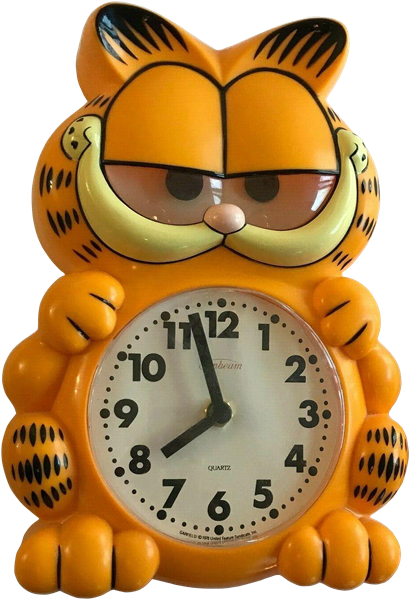
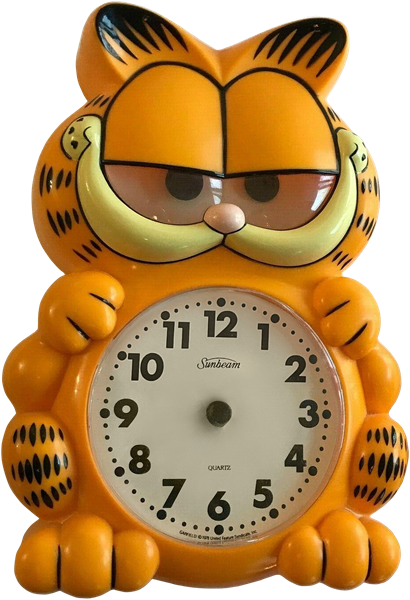
garfield light switch + working clock + more merch

diff --git a/codecreature.net/shrines/garfield/merch/index.html b/codecreature.net/shrines/garfield/merch/index.html
@@ -66,9 +66,15 @@
 									data-caption="1989 McDonald’s Happy Meal toy">
 							</td>
 						-->
+						<!-- top row -->
+						<tr>
+							<td></td>
+							<td></td>
+							<td></td>
+							<td></td>
+						</tr>
 						<!-- shelf 1 -->
 						<tr>
-							
 							<td class="item small"><div class="wrapper">
 								<img src="../images/merch/mcdonalds_scooter_02.png" alt="A small plastic Garfield and Odie riding a bright red moped. Garfield is waving."
 									data-caption="1989 McDonald’s Happy Meal toy">
@@ -137,7 +143,8 @@
 							</td>
 							
 							<td class="item">
-								<img src="../images/merch/coin_bank.png" alt="A coin bank of Garfield sitting up, crossing his arms with a smirk">
+								<img src="../images/merch/plush_mcdonalds.png" alt="Smiling Garfield plush wearing a red McDonald's visor, tie, and striped shirt. He has a Garfield and Company paper tag on his ear."
+									data-caption="1988 McDonald's Manager Plush by Dakin<br>This toy was only available to employees and never sold at retail!">
 							</td>
 							
 							<td class="item">
@@ -146,9 +153,10 @@
 									style="margin-bottom: -1%; margin-left: -10%; rotate: -6deg;">
 							</td>
 							
-							<td class="item">
-								<img src="../images/merch/plush_mcdonalds.png" alt="Smiling Garfield plush wearing a red McDonald's visor, tie, and striped shirt. He has a Garfield and Company paper tag on his ear."
-									data-caption="1988 McDonald's Manager Plush by Dakin<br>This toy was only available to employees and never sold at retail!">
+							<td class="item lamp">
+								<div class="glow"></div>
+								<img class="off" style="padding-left: 8%;" src="../images/merch/lamp_merchoid_moon.png" alt="">
+								<img class="on" style="padding-left: 8%;" src="../images/merch/lamp_merchoid_moon_on.png" alt="">
 							</td>
 						</tr>
 						
@@ -206,6 +214,7 @@
 						<!-- shelf 5 -->
 						<tr>
 							<td class="item">
+								<img src="../images/merch/coin_bank.png" alt="A coin bank of Garfield sitting up, crossing his arms with a smirk">
 							</td>
 							
 							<td class="item med">
@@ -218,6 +227,8 @@
 							</td>
 							
 							<td class="item">
+								<img src="../images/merch/kidrobot_wiper.png" alt=""
+									data-caption="Screen Wipe Plush by Kidrobot">
 							</td>
 						</tr>
 						
@@ -237,11 +248,50 @@
 					})();
 				</script>
 				
-				<img id="balloon-embroidery" class="wall-hanging" src="../images/merch/balloon_embroidery.png" alt="">
+				<img id="balloon-embroidery" class="wall-hanging thin-shadow" src="../images/merch/balloon_embroidery.png" alt="">
 				
 				<div class="pendulum-clock wall-hanging">
 					<img class="body" src="../images/merch/clock_sunbeam_pendulum.png" alt="">
+					<img id="pendulum-clock-second" class="hands" src="../images/merch/clock_sunbeam_pendulum_second.png" alt="">
+					<img id="pendulum-clock-minute" class="hands" src="../images/merch/clock_sunbeam_pendulum_minute.png" alt="">
+					<img id="pendulum-clock-hour" class="hands" src="../images/merch/clock_sunbeam_pendulum_hour.png" alt="">
+					<img class="hands center" src="../images/merch/clock_sunbeam_pendulum_center.png" alt="">
 					<div class="tail"><img src="../images/merch/clock_sunbeam_pendulum_tail.png" alt=""></div>
+					
+					<script>
+						(()=>{
+							let date = new Date();
+							let hours = date.getHours();
+							let minutes = date.getMinutes();
+							let seconds = date.getSeconds();
+							
+							var secDeg = seconds * 6;
+							var minuteDeg = (minutes * 6) + (seconds * .1);
+							var hourDeg = (hours * 30) + (minutes * .5);
+							
+							var secondHand = document.getElementById("pendulum-clock-second");
+							var minuteHand = document.getElementById("pendulum-clock-minute");
+							var hourHand = document.getElementById("pendulum-clock-hour");
+							function rotateClock() {
+								secDeg += 6;
+								minuteDeg += 0.1;
+								hourDeg += 0.1 / 60;
+								secondHand.style.rotate = secDeg + "deg";
+								minuteHand.style.rotate = minuteDeg + "deg";
+								hourHand.style.rotate = hourDeg + "deg";
+								setTimeout(rotateClock,1000)
+							}
+							rotateClock();
+						})();
+					</script>
+				</div>
+				
+				<div id="light-switch" class="wall-hanging" onclick="document.body.classList.toggle('lights-off');">
+					<div class="wrapper">
+						<img class="plate thin-shadow" src="../images/merch/switch_plate_flower.png" alt="">
+						<img class="off" src="../images/merch/switch_plate_flower_off.png" alt="">
+						<img class="on" src="../images/merch/switch_plate_flower_on.png" alt="">
+					</div>
 				</div>
 				
 			</div>

diff --git a/codecreature.net/shrines/garfield/merch/merch.css b/codecreature.net/shrines/garfield/merch/merch.css
@@ -36,12 +36,12 @@
 		text-align: center;
 		> img { max-width: 100%; }
 		/* background */
-		&:after {
+		&:before {
 			content: '';
+			z-index: -1;
 			position: absolute;
 			left: 0; top: 0;
 			width: 100%; height: 100%;
-			z-index: -1;
 			background-image: url('../images/merch/shelf_middle.png');
 			background-size: 100% 100%;
 		}
@@ -50,7 +50,7 @@
 			width: calc(var(--size)*1.158);
 			text-align: right;
 			/* background */
-			&:after { background-image: url('../images/merch/shelf_left.png'); }
+			&:before { background-image: url('../images/merch/shelf_left.png'); }
 			/* contents */
 			> img, .wrapper { max-width: 80%; }
 			.wrapper { float: right; }
@@ -60,7 +60,7 @@
 			width: calc(var(--size)*1.458);
 			text-align: left;
 			/* background */
-			&:after { background-image: url('../images/merch/shelf_right.png'); }
+			&:before { background-image: url('../images/merch/shelf_right.png'); }
 			/* contents */
 			> img, .wrapper { max-width: 67%; }
 		}
@@ -93,14 +93,13 @@
 		} }
 	}
 	
-	td {
-		&:first-of-type { width: calc(var(--size)*.9); }
-		&:last-of-type {  }
-	}
+	td:first-of-type { width: calc(var(--size)*.9); }
 	
-	/* top of shelves */
 	tr:first-of-type {
 		td {
+			width: var(--size);
+			position: relative;
+			z-index: 10;
 			&:before {
 				content: '';
 				background-image: url('../images/merch/shelf_top_middle.png');
@@ -112,6 +111,7 @@
 				top: 0;
 				height: calc(var(--size));
 				width: 100%;
+				pointer-events: none;
 			}
 			
 			&:first-of-type {
@@ -147,11 +147,22 @@
 	font-size: 0.9em;
 }
 
+/*** WALL HANGINGS ***/
+.wall-hanging {
+	display: inline-block;
+}
+.wall-hanging img, img.wall-hanging {
+	user-select: none;
+}
 .wall-hanging img, img.wall-hanging, #shelves {
 	filter: drop-shadow(-5px 10px 8px rgba(100,60,31,.5));
 }
-
+.wall-hanging .thin-shadow, .wall-hanging.thin-shadow {
+	filter: drop-shadow(-2px 4px 3px rgba(100,60,31,.5));
+}
 .pendulum-clock {
+	pointer-events: none;
+	position: relative;
 	@media screen and (width > 1500px) {
 		position: absolute;
 		z-index: 1;
@@ -159,8 +170,19 @@
 	}
 	width: min(60%,270px);
 	margin: 0 auto;
-	display: inline-block;
 }
+
+.pendulum-clock .hands {
+	position: absolute;
+	transform-origin: 50% 100%;
+	bottom: 51.8%;
+	left: 51.4%;
+	width: 5.4%;
+}
+.pendulum-clock .center {
+	bottom: 50.7%;
+}
+
 .pendulum-clock .tail {
 	position: relative;
 	width: 25%;
@@ -192,6 +214,75 @@
 	}
 }
 
+/*** LIGHTS ***/
+
+#light-switch {
+	@media screen and (width > 1300px) {
+		position: absolute;
+		top: 370px;
+		width: min(10%,115px);
+		right: calc(50% + min(415px, 29vw));
+	}
+	@media screen and (width <= 1300px) {
+		width: min(20%,240px);
+	}
+	.wrapper {
+		width: 100%;
+		position: relative;
+	}
+	img {
+		max-width: 100%;
+		display: block;
+		position: absolute;
+		left: 0; top: 0;
+	}
+	.wrapper :first-child { position: relative;  }
+	.off, .on { filter: none; pointer-events: none; }
+}
+.lights-off #light-switch .on { display: none; }
+
+.lights-off main:after, .lights-off #shelves .item:after, .lights-off #shelves .lamp .glow {
+	content: '';
+	position: absolute;
+	bottom: 0; left: 0;
+	width: 100%; height: 100%;
+}
+.lights-off main:after {
+	background: #706364;
+	mix-blend-mode: multiply;
+	pointer-events: none;
+}
+.lights-off #shelves .item:after {
+		z-index: 1;
+		background-color: #706364;
+		opacity: .8;
+		mix-blend-mode: multiply;
+		pointer-events: none;
+}
+
+.lights-off #shelves tr:first-of-type td:before { background-image: url('../images/merch/shelf_top_middle_dark.png'); }
+.lights-off #shelves tr:first-of-type td:first-of-type:before { background-image: url('../images/merch/shelf_top_left_dark.png'); }
+.lights-off #shelves tr:first-of-type td:last-of-type:before { background-image: url('../images/merch/shelf_top_right_dark.png'); }
+
+body:not(.lights-off) #shelves .lamp .on,
+body:not(.lights-off) #shelves .lamp .glow,
+.lights-off #shelves .lamp .off {
+	display: none;
+}
+#shelves .lamp .on {
+	position: relative;
+	z-index: 4;
+}
+.lights-off #shelves .lamp .glow {
+	z-index: 3;
+	bottom: 10%;
+	background: #f2c58c;
+	mix-blend-mode: overlay;
+	border-radius: 50%;
+	filter: blur(var(--size));
+}
+
+/*** DVDs ***/
 
 .dvd-container {
   z-index: 1;

diff --git a/codecreature.net/updates/updateLog.js b/codecreature.net/updates/updateLog.js
@@ -26,6 +26,17 @@ const updateLog = [
 		`
 	},*/
 	{
+		date: new Date('2026-07-29T18:54'),
+		authors: ['emery','prax'],
+		tags: ['garfield'],
+		summary: `
+			working light switch and clock hands on the <a href="/shrines/garfield/merch">garf merch</a> page
+		`,
+		details: `
+			<p>the big pendulum clock works!! light switch makes everything dark except the lamps - one lamp added so far, but I have a few more I'm currently editing to add %E%:)%</p>
+		`
+	},
+	{
 		date: new Date('2026-07-25T15:12'),
 		authors: ['emery'],
 		tags: ['games','worm stocks','worm race','new page'],
